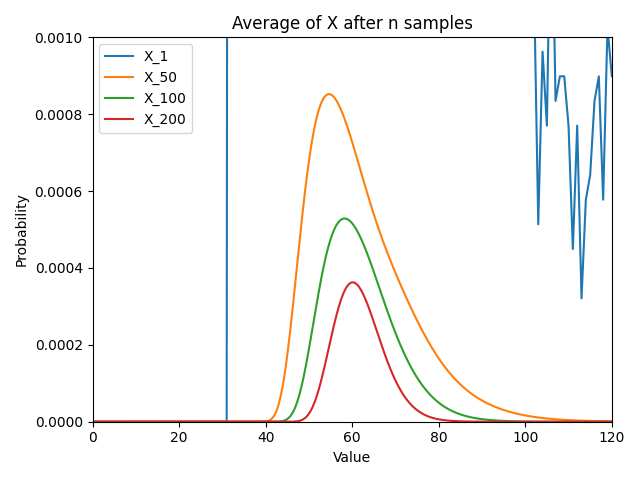
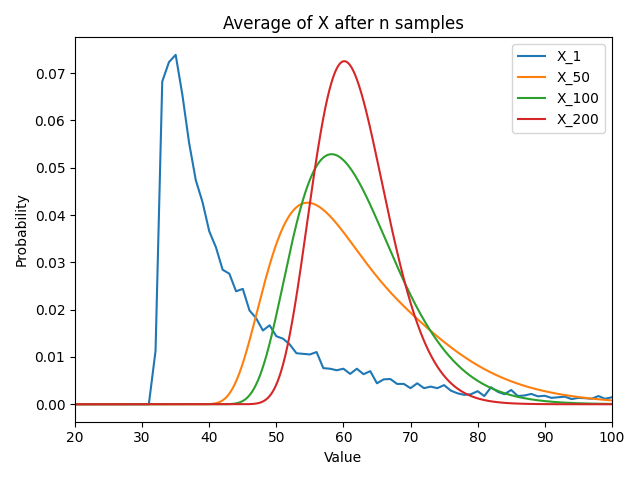
re-scale graph

diff --git a/problib/data.py b/problib/data.py
@@ -59,15 +59,13 @@ def parse_list(fname: str) -> list:
     lines = []
     with open(fname) as f:
         for line in f:
-            name, total = line.split()[:-1], line.split()[-1].strip()
-            if total[0] + total[-1] == "()":
-                try:
-                    name, total = " ".join(name), int(total[1:-1])
-                except ValueError:
-                    name = line
-            else:
+            line = line.strip().lower()
+            if line in bundle_dict or line in series_dict:
                 name = line
-            lines.append(name.strip().lower())
+            else:
+                name, total = line.split()[:-1], line.split()[-1]
+                name, total = " ".join(name), int(total[1:-1])
+            lines.append(name)
     return lines
 
 # maps bundles -> List[str] of series

diff --git a/graphs.py b/graphs.py
@@ -197,9 +197,8 @@ if graphs[g]:
     poly = convolve.get_poly(X, p)
     for i, n in enumerate([1, 50, 100, 200]):
         pmf = convolve.poly_exp(poly, n)
-        graph_rv([i/n for i in range(len(pmf))], pmf, i, f"X_{n}")
-    plt.ylim(0, 0.001)
-    plt.xlim(0, 120)
+        graph_rv([i/n for i in range(len(pmf))], [x*n for x in pmf], i, f"X_{n}")
+    plt.xlim(20, 100)
     plt.title("Average of X after n samples")
     plt.legend()
     plt.savefig(f"graphs/graph{g:02}.png")
